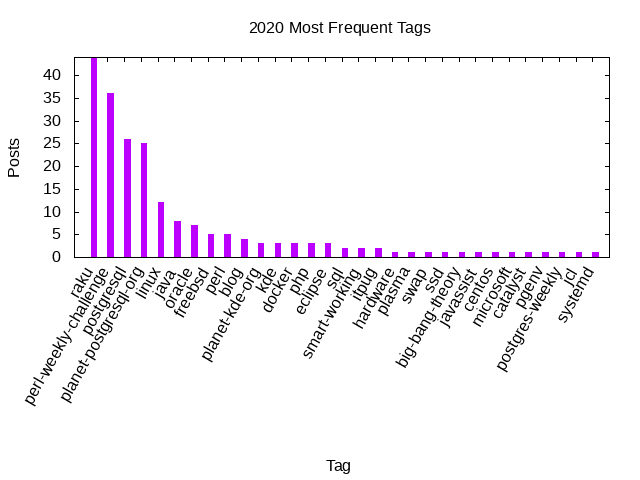
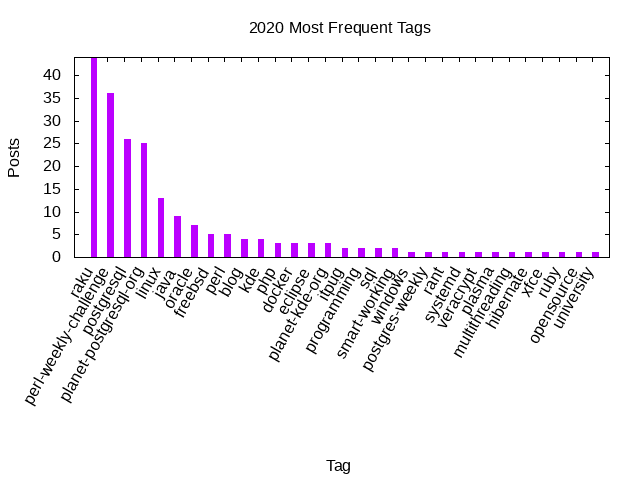
Stats update

diff --git a/_includes/stats/2020.md b/_includes/stats/2020.md
@@ -1,40 +1,40 @@
 ## 2020 (work in progress)
 
-**102 total posts** have been written on 2020.
-There have been *52 different tags* used, the most
+**105 total posts** have been written on 2020.
+There have been *53 different tags* used, the most
 popular being (sorted by number of posts):
  
 - *raku* (44 posts)  
 - *perl-weekly-challenge* (36 posts)  
 - *postgresql* (26 posts)  
 - *planet-postgresql-org* (25 posts)  
-- *linux* (12 posts)  
-- *java* (8 posts)  
+- *linux* (13 posts)  
+- *java* (9 posts)  
 - *oracle* (7 posts)  
 - *freebsd* (5 posts)  
 - *perl* (5 posts)  
 - *blog* (4 posts)  
-- *planet-kde-org* (3 posts)  
-- *kde* (3 posts)  
-- *docker* (3 posts)  
+- *kde* (4 posts)  
 - *php* (3 posts)  
+- *docker* (3 posts)  
 - *eclipse* (3 posts)  
+- *planet-kde-org* (3 posts)  
+- *itpug* (2 posts)  
+- *programming* (2 posts)  
 - *sql* (2 posts)  
 - *smart-working* (2 posts)  
-- *itpug* (2 posts)  
-- *hardware* (1 posts)  
-- *plasma* (1 posts)  
-- *swap* (1 posts)  
-- *ssd* (1 posts)  
-- *big-bang-theory* (1 posts)  
-- *javassist* (1 posts)  
-- *centos* (1 posts)  
-- *microsoft* (1 posts)  
-- *catalyst* (1 posts)  
-- *pgenv* (1 posts)  
+- *windows* (1 posts)  
 - *postgres-weekly* (1 posts)  
-- *jcl* (1 posts)  
-- *systemd* (1 posts).<br/>
+- *rant* (1 posts)  
+- *systemd* (1 posts)  
+- *veracrypt* (1 posts)  
+- *plasma* (1 posts)  
+- *multithreading* (1 posts)  
+- *hibernate* (1 posts)  
+- *xfce* (1 posts)  
+- *ruby* (1 posts)  
+- *opensource* (1 posts)  
+- *university* (1 posts).<br/>
 <br/>
 The following is the overall 2020 post ratio by month:
 <br/>
@@ -53,7 +53,7 @@ The following is the overall 2020 post ratio by tag (showing max 30 tags):
 
 <div align="right">
 <small>
-Last generated on 2020-08-31 at 16:10
+Last generated on 2020-09-01 at 17:16
 </small>
 </div>
 
